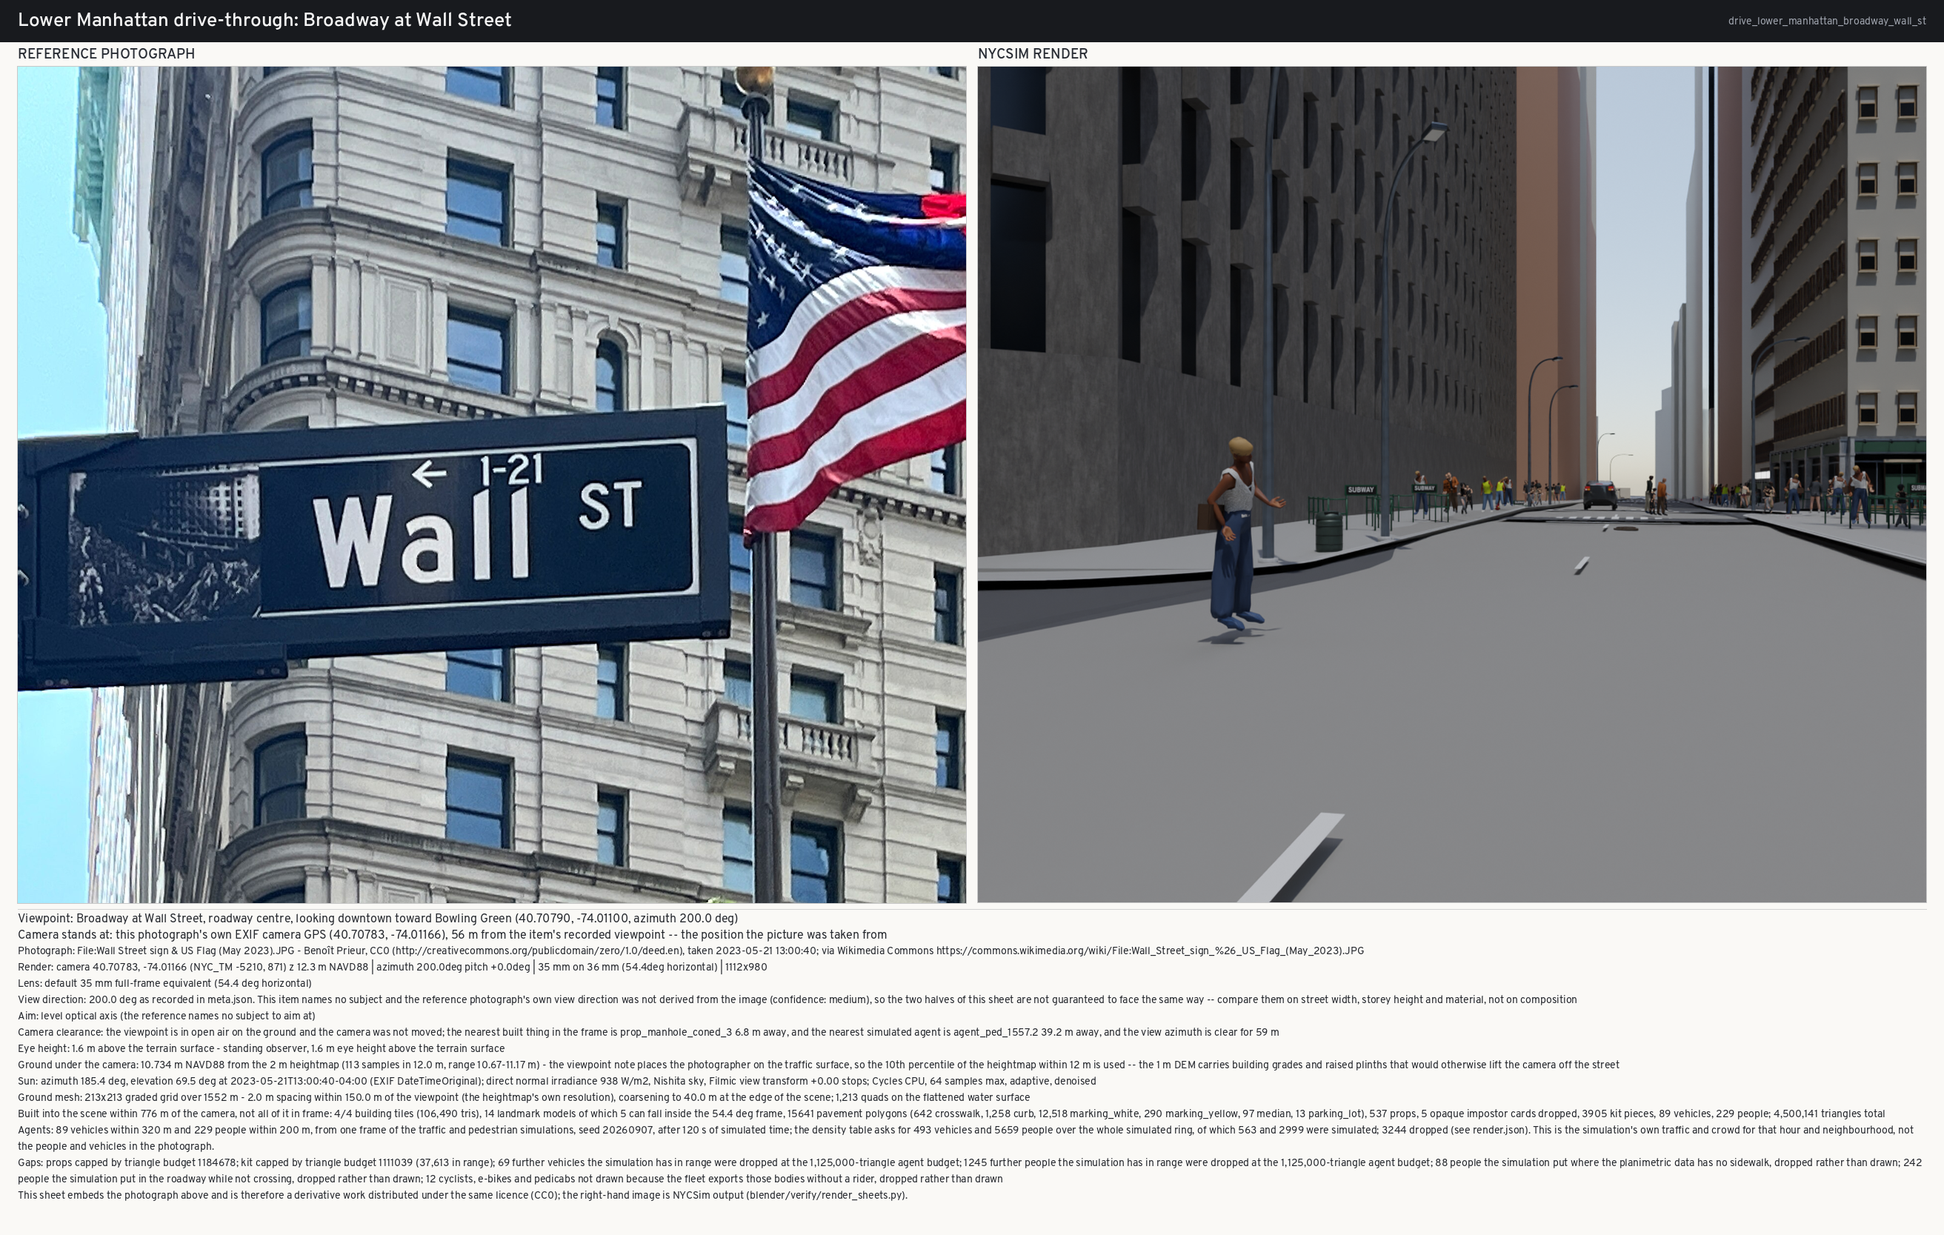
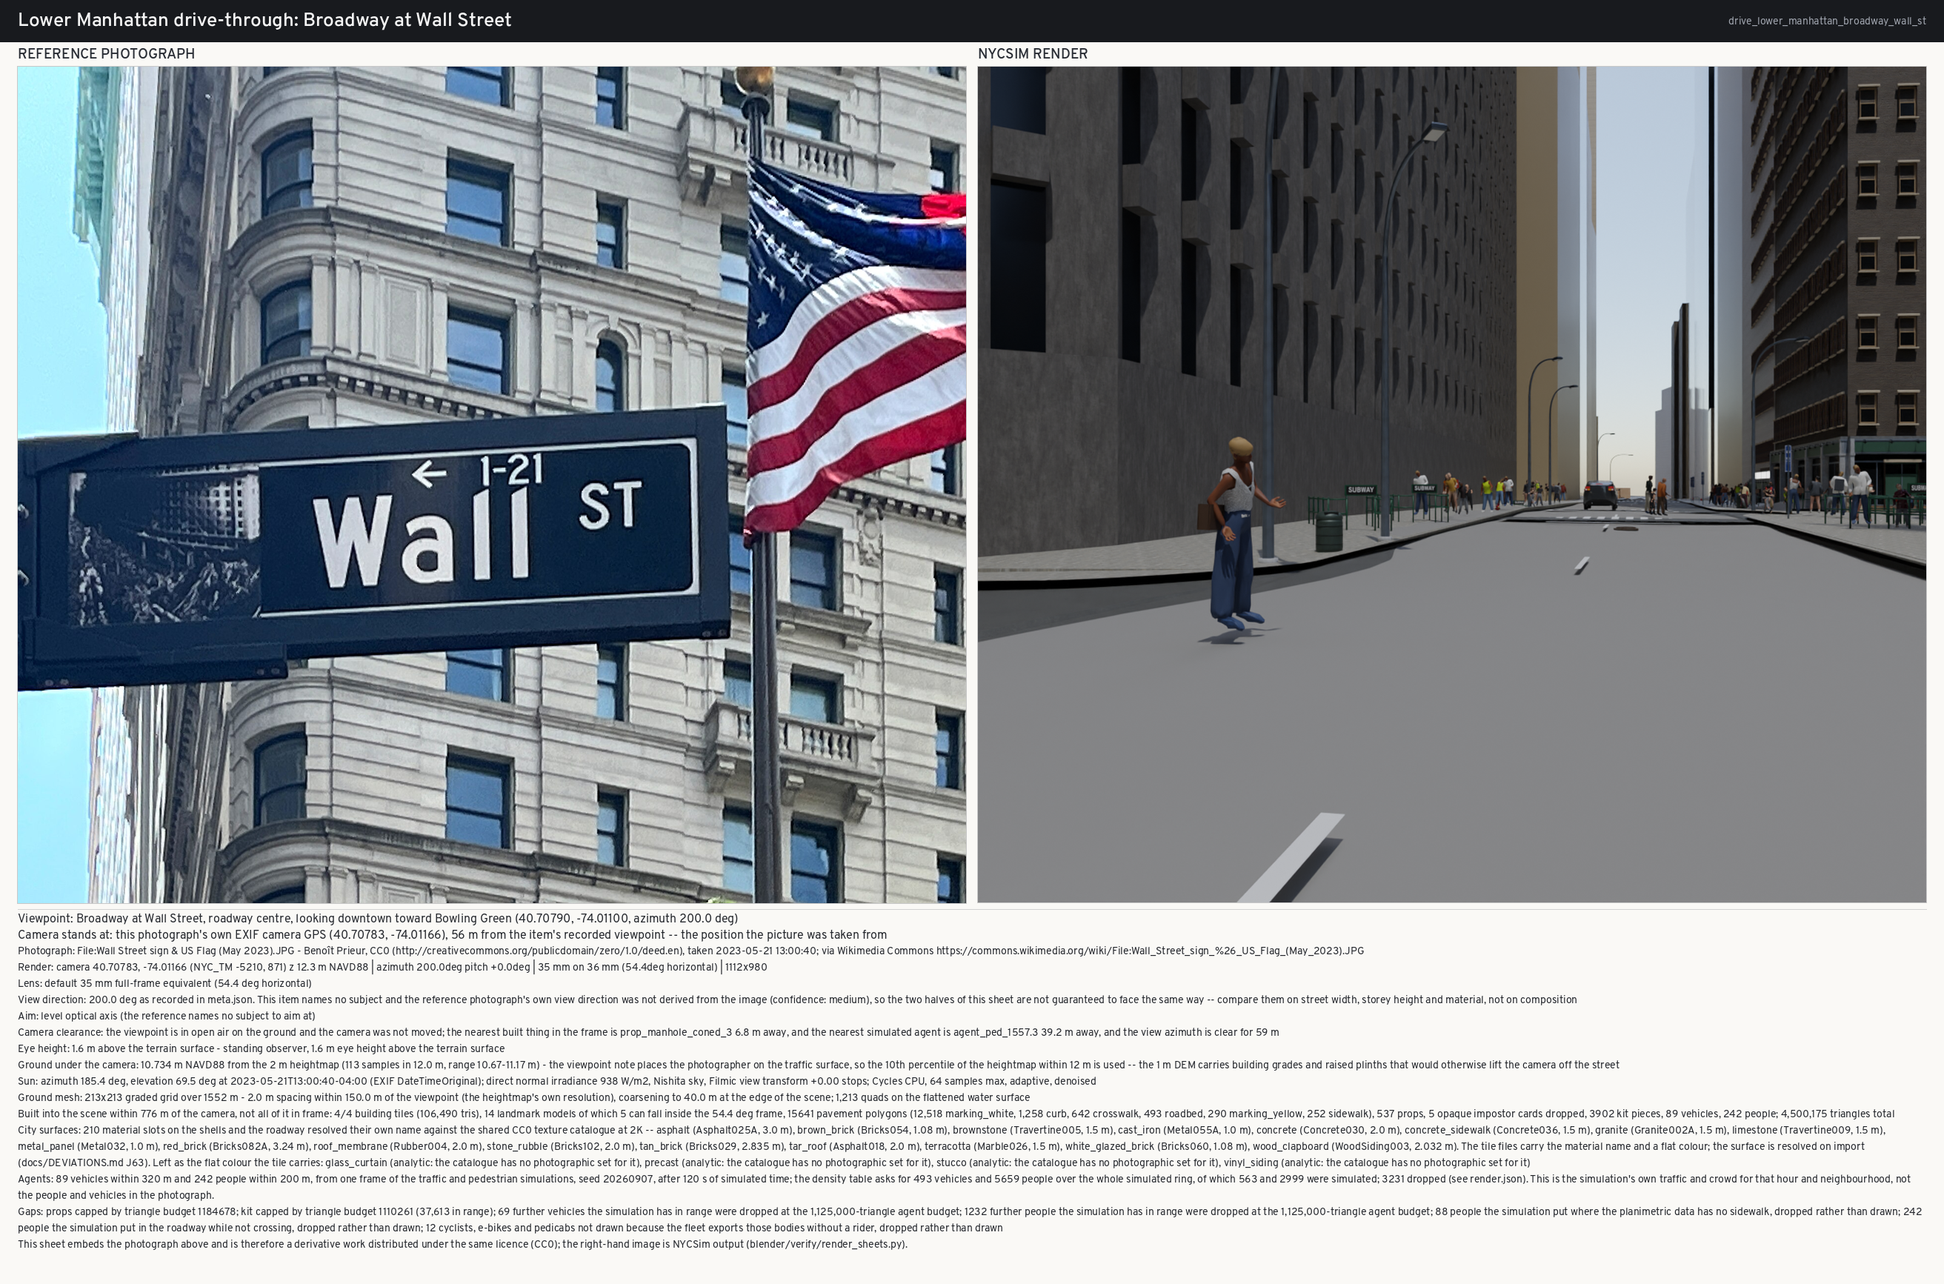
verify: J64 — the road is buried under the terrain in the near field
Ray-cast down from points along the Broadway/Wall St view axis, the asphalt
sits below the terrain the whole way: -0.47 m at 1 m ahead, -0.62 at 5,
-0.64 at 8, -0.21 at 20, crossing over to +0.03 only at 50 m. Cast along
the view direction, every ray from 45 degrees down to 3 degrees hits the
ground mesh out to 29 m. The foreground of every street-level sheet is the
flat brown terrain, not the road; the markings and kerb that are visible
are all beyond that.

Not a lift and not z-fighting: add_pavement ear-clips the raw outline and
drapes only the polygon's ring, so the interior is a flat fan between its
edge heights. The roadbed polygon containing this camera is 2,843 m2 and
Broadway rises more than half a metre across it, while the terrain samples
every 2 m and follows the rise.

The measurement that settles it: t_-6_0/tile_pavement.glb carries 801,235
pavement triangles, 71,591 of them roadbed asphalt, against the 25,555 the
renderer built for a whole 200 m disc across several tiles. The exporter
cuts every polygon on a 2.5 m grid before draping and the renderer
re-derives it without that step -- so the sheets have never shown the road
surface that ships.

Also closes out today's prop work in the two J58 registers, which is what
turned this up: three kinds left COLLAPSED_PROP_KINDS (bus_stop_sign,
utility_pole, rtpi_sign), the recorded total moves 314,105 -> 297,694, and
WRONG_SIZED_PROP_ASSETS is now empty and kept as an empty register because
[…]

diff --git a/tests/test_world_integration.py b/tests/test_world_integration.py
@@ -1182,13 +1182,14 @@ def test_the_architecture_does_not_claim_a_train_that_does_not_run():
 COLLAPSED_PROP_KINDS = {
     "manhole": (288_174, "no source in this build says which cover belongs to which utility; the "
                          "rows are rule-placed, so a DEP/Con Edison split would be invented"),
-    "bus_stop_sign": (13_341, "drawn as sign_nyc_parking_18, a different object; needs an MTA blade"),
     "waste_basket": (5_611, "all Better Bin; DSNY replaced only part of the wire-basket stock"),
     "citibike_dock": (2_507, "the bikes without their dock rail or kiosk"),
-    "flagpole": (1_655, "all the city flag; nothing in the data says which pole flies which"),
     "steam_vent": (1_402, "all the 3 m stack; the 6 m is used where the plume must clear traffic"),
-    "utility_pole": (924, "all the 2 m u-channel post"),
-    "rtpi_sign": (491, "drawn as sign_nyc_parking_18, a different object"),
+    # Left this register on 2026-09-08 and each says how:
+    #   bus_stop_sign  13,341  now sign_mta_bus_stop, its own asset (J58)
+    #   flagpole        1,655  now 812 US and 843 city poles, split on the OSM subtype (J58)
+    #   utility_pole      924  now unplaced; an 11 m pole has no asset and a sign post is not one
+    #   rtpi_sign         491  now unplaced, likewise
 }
 
 
@@ -1254,20 +1255,22 @@ def test_no_prop_kind_quietly_collapses_onto_one_of_its_assets():
     for name in COLLAPSED_PROP_KINDS:
         if name not in found:
             wrong.append(f"{name}: no longer collapsed -- remove it from COLLAPSED_PROP_KINDS and J58")
+    # 314,105 when J58 was written; 297,694 after 2026-09-08 took bus_stop_sign (13,341),
+    # flagpole (1,655), utility_pole (924) and rtpi_sign (491) out of it.  The figure is asserted so
+    # that the register and the deviation cannot drift apart in either direction.
     total = sum(n for n, _ in COLLAPSED_PROP_KINDS.values())
-    assert total == 314_105, f"the recorded total moved to {total:,}; J58 says 314,105"
+    assert total == 297_694, f"the recorded total moved to {total:,}; J58 says 297,694"
     assert not wrong, "prop asset selection moved:\n   " + "\n   ".join(wrong)
 
 
 #: Kinds whose chosen asset is more than twice or less than half the height the kind declares, and
 #: why (docs/DEVIATIONS.md J58). The catalogue states each kind's real dimensions and each asset's
 #: measured ones, so this was checkable from the day both existed and nothing compared them.
-WRONG_SIZED_PROP_ASSETS = {
-    "utility_pole": (11.0, 2.44, "an 11 m wooden power/telecom pole drawn as a 2 m u-channel sign "
-                                 "post; the sign_post alias is the fault, not the variant"),
-    "bus_stop_sign": (3.0, 0.46, "an MTA bus stop blade drawn as an 18 in parking regulation plate"),
-    "rtpi_sign": (3.0, 0.46, "a real-time passenger information sign, likewise"),
-}
+#: Empty since 2026-09-08.  All three entries left it on the same day: ``bus_stop_sign`` got its own
+#: 3.05 m asset, and ``utility_pole`` and ``rtpi_sign`` are unplaced rather than drawn as a 0.46 m
+#: parking plate and a 2.44 m sign post (docs/DEVIATIONS.md J58).  Kept as an empty register rather
+#: than deleted: the test below is what refuses the next one.
+WRONG_SIZED_PROP_ASSETS: dict[str, tuple[float, float, str]] = {}
 
 
 def test_no_prop_kind_is_drawn_by_an_asset_of_the_wrong_size():

diff --git a/blender/props/p_signs.py b/blender/props/p_signs.py
@@ -139,7 +139,7 @@ SPECS = [
                "MUTCD R2-1 SPEED LIMIT, 24 x 30 in (0.610 x 0.762 m); the baked legend is the NYC citywide default of "
                "25 mph, replaced per instance from roads/segments.parquet posted_speed_mph.",
                variants=SIGN_VARIANTS, tags=["mutcd:R2-1"], tolerance=0.05),
-    C.PropSpec("sign_mta_bus_stop", "signs", "bus_stop_sign", build_mta_bus_stop, (0.305, 0.070, 3.05),
+    C.PropSpec("sign_mta_bus_stop", "signs", "bus_stop_sign", build_mta_bus_stop, (0.305, 0.039, 3.05),
                "MTA bus stop sign: a 12 x 42 in blue blade with a bus pictogram and BUS STOP, on a "
                "10 ft galvanised U-channel post, blade bottom 2.0 m above grade. Route numbers are "
                "not drawn -- they differ per stop and this build has no per-stop artwork "

diff --git a/blender/props/build_props.py b/blender/props/build_props.py
@@ -94,6 +94,8 @@ def _write_asset_catalog() -> int:
     exported, catalogued per asset, and still absent from the aggregate the placer reads
     (docs/DEVIATIONS.md J58).  Written on every run, including a partial one.
     """
+    import _core as C
+
     entries = []
     for f in sorted(C.CATALOG_DIR.glob("*.json")):
         try:

diff --git a/docs/DEVIATIONS.md b/docs/DEVIATIONS.md
@@ -273,6 +273,7 @@ what they have in common is more useful than where they happened.
 | J61 | **The sheet caption introduced its scene counts with the words "In frame", and the landmark count is two and a half times what a frame can hold.** Broadway at Wall Street builds **14 landmark models** into its scene and captions them *"In frame: ... 14 landmarks"*. Nine of the fourteen stand behind or beside the camera: Trinity Church at **54 m** and 99&deg; off the view axis, Federal Hall at 131 m and 85&deg; off, the Equitable Building at 107 m and 135&deg; off, the Brooklyn Bridge at 1.2 km and 102&deg; off. Measured over every sheet that carries landmarks at all: **449 models placed, 180 that can fall inside a frame (40 %), and 47 of the 52 sheets overstate.** The same word covers the pavement and prop counts, which are radius counts too -- this sheet's *"12,518 marking_white"* is over **776 m**, while **3** marking polygons lie within 30 m of the camera inside the cone and 51 within 60 m. | It is J54's family again and the fourth appearance in this pass: a correct measurement of something other than the thing it stands for. The damage is not the caption but what is written from it -- an assessment quoting *"14 landmarks in frame"* describes a picture that shows at most five, and the reader has no way to catch it because the number is real and the render did place them. The pavement figure misleads in the same direction: it reads as a densely marked road and the road under the camera carries three painted polygons, which is **correct** for this block -- 4 in dash paint on a 12.2 m period -- and looks like a failure only because the caption invited the wrong comparison. | Done, and without a re-render. The counts were never wrong; the sentence that introduced them was. The line now opens *"Built into the scene within N m of the camera, not all of it in frame"* and the landmark count carries its in-cone figure beside it: *"14 landmark models of which 5 can fall inside the 54.4 deg frame"*. The frustum arithmetic lives once, in `tools/sheet_facts.py`, and both the caption composer and the assessment facts call it -- `--compose-only` rebuilds a sheet from its existing `render.json` for no render time, so all 172 sheets take the new wording whenever they were rendered. It is a cone test, not a visibility test, and says so: a nearer building can still hide a landmark that crosses the field of view. **The same record carried a second trap for a writer**, found while reading it: `agent_request.dow` is not a day of the week. `DensityTable::kDows` is **3** -- one density profile for weekdays, one for Saturday, one for Sunday -- so this sheet's Sunday photograph records `"dow": 2`, which transcribes as Tuesday. That is exactly the "Monday for Saturday" error the adversarial verify pass caught in an early assessment. The facts now spell the day type out (**Sunday**) and check it against the frame's own clock. |
 | J62 | **Every comparison render in this project drew its entire crowd from twelve bodies out of thirty-six, and the twelve exclude every coat.** `blender/verify/render_sheets.py` held `AGENT_NPC_ARCHETYPES = 12`, justified in its own comment by *"the 24 exported bodies through three walk phases already give more distinct figures than a frame ever holds"*. Both halves of that sentence are false. The wardrobe bakes **36** bodies, not 24 -- J53 added twelve outerwear bodies, indices 24 to 35, every trench coat, wool coat, puffer, leather, denim and field jacket in the project. And a frame holds **229 people**, not 36. `PedLibrary` then clamped again with `min(24, ...)`, so even correcting the constant to 36 would silently have kept 24. The simulation emits all thirty-six: **989 of the 2,999 people in the Broadway/Wall St snapshot (33.0 %) carry archetype 24 or above**, and every one of them was folded onto a body 0 to 11 by `arch % 12`. | The frame is the evidence, and the evidence was of a city that does not exist. With twelve bodies over 229 people **each body stands in the same frame about nineteen times**; **two of the twelve wear medical scrubs**, so one person in six on Broadway and Wall Street is dressed as hospital staff; and the mustard jacket that is body 2 appears nineteen times, which is what makes a Financial District sidewalk read as a work crew. The fold is uniform rather than skewed -- 36 archetypes over 12 bodies is exactly 3 each -- so nothing looked statistically odd; **24 of 36 bodies were simply absent from every sheet.** The worst of it is what this does to J53: that deviation is closed as *"the crowd never puts a coat on -- done"*, and the only stage in the project that can show a coat could not draw one. A fix verified by a renderer that cannot render it is not verified. | Done, and **the pass was restarted a eleventh time at 9 of 172** -- this changes the image on every sheet, which is the standing bar for a restart. `AGENT_NPC_ARCHETYPES` is now `None`, meaning every body the wardrobe baked; `PedLibrary` takes its cast from `npc_variety.json` rather than a literal, and clamps to what is on disk. The fold survives -- a snapshot from a newer simulation must not crash a render -- but it is **counted and published**: `scene.agents.snapshot.npc_archetypes_available` states the cast on every sheet and `npc_archetypes_folded` names any archetype that was substituted, so this can never again be discovered by looking at a picture. `test_the_verification_render_can_draw_every_body_the_wardrobe_bakes` holds the constant, the clamp, the glb on disk for each baked body, and every shipped sheet's own report. **A second thing was measured while confirming this and is a stated rule, not a defect:** above 12 degrees the archetype draw is uniform over all 36 bodies, so a **15 degree** May afternoon puts a third of the crowd in outerwear -- correct for a denim or leather jacket, wrong for a wool coat and a puffer. The weighting in `GameplayPedSim::assignAppearance` is a two-state rule (below 12 degrees, prefer warm) and has no mild band. Named here rather than fixed silently. |
 | J63 | **The whole streamed city -- every building, every roadway, every elevated structure and every park surface -- is painted in flat colours and carries no texture at all.** Scanned over every exported `.glb`: **`tile_buildings` 920 files, 4.12 GB, 8,722 materials, 0 with a base-colour texture. `tile_pavement` 546 files, 8.34 GB, 5,177 materials, 0. `tile_structures` 845 files, 1,804 materials, 0. `tile_parkground` 43 files, 188 materials, 0.** That is **12.71 GB of geometry and 15,891 materials without a single image**. Everything authored by hand is textured -- landmarks 234 of 932, props 224 of 383, the facade kit 441 of 630, the characters 442 of 545 -- and everything generated at city scale is sixteen solid RGB values: `NYCSIM_red_brick` is `[0.42, 0.16, 0.12]` and nothing else. | This is the largest single gap against the brief's photorealism requirement in the project, and it went unrecorded because **it was measured and read as good news**. J50 states it outright -- *"The tiles are unaffected: they carry 12.7 GB of geometry and no embedded images at all"* -- as evidence that the duplication problem did not touch them. The same sentence is the finding. It is visible in every sheet: on the Broadway/Wall St frame the facade kit mounts real window geometry within **176 m** of the camera and the scene reaches **776 m**, so everything beyond the kit radius is an untextured extrusion, and the render's mean chroma is **0.023 against the reference photograph's 0.112** -- a fifth of the colour variation of the street it is a picture of. **Nothing was missing to fix it.** The catalogue `blender/common/texture_catalog.json` already holds all sixteen names plus `asphalt` and `concrete_sidewalk`; all eighteen are **already downloaded, CC0, with measured physical sizes, 251.7 MB on disk**, and are used today by the landmarks and the kit. The shells already carry `TEXCOORD_0` **in metres** (U = arc length along the facade, V = height above ground), which is exactly what a texture with a known `physical_size_m` needs. And a correct material builder already exists -- `blender/buildings/render_verify.py::_material` resolves the name, reads `physical_size_m`, wires colour, roughness and normal through a Mapping node and adds the per-building variation from the shell's own `_LIT_SEED` attributes. The buildings stage wrote a textured renderer for its own verification and **the comparison renderer, which is the project's evidence, imports the exported `.glb` and uses whatever flat material the file carries**. | **Open, and split in two because the halves cost differently.** *The renders* can be fixed for no disk at all: the exported file's job is to carry the material **name**, and the consumer resolves the name -- so `blender/verify/scene.py` dresses each `NYCSIM_*` slot from the catalogue on import, one shared material datablock across every tile so the images load once. That is the next thing built. *The engine* is the expensive half: Unreal resolves nothing either -- no material instance anywhere in `unreal/` names `red_brick` or any other -- so a player sees the same flat colours. Fixing it in the exported files is **not possible in this container**: J50's sidecar rule writes each image into a `textures/` directory beside its own `.glb`, so eighteen materials across 1,554 tile files would be about 250 MB times 1,554, and there are **1.9 GB of writable disk**. The engine-side fix is therefore a set of Unreal material instances keyed on the sixteen names, shipped once with the content package -- named here, sized, and not pretended to be done. **And the texture library was built for exactly this and never asked.** J36 says so in its own words while closing a different fault: *"The library was built for the city's surfaces -- brick, limestone, asphalt, glass -- and the vehicle stage was written against names nobody added."* The vehicles were the ones missing from the catalogue and were added; the city's surfaces were in it from the start, and the city is the one consumer that never called it. |
+| J64 | **The road is buried under the terrain for the first thirty metres of every street-level frame, so the foreground of every drive-through sheet is bare ground.** Ray-cast straight down from points along the Broadway/Wall St view axis, the asphalt sits **below** the terrain the whole way: **-0.47 m at 1 m ahead, -0.52 at 2, -0.56 at 3, -0.62 at 5, -0.64 at 8, -0.51 at 12, -0.21 at 20, -0.17 at 30**, crossing over to +0.03 m only at 50 m. Cast along the view direction instead, every ray from 45 degrees down to 3 degrees hits `verify_terrain / verify_ground` -- the flat 0.26 brown the ground mesh is painted -- out to 29 m. The markings, the crosswalk and the kerb that are visible in the frame are all beyond that. | Not a lift and not z-fighting: a **tessellation** fault, and the docstring states the assumption it breaks. `add_pavement` says *"each vertex is lifted to the heightmap surface plus the kind's own offset, so the pavement follows the real grade"* -- true of the vertices it has, and it only has the polygon's **ring**. It ear-clips the raw outline and drapes the boundary, so the interior of a polygon is a flat fan between its edge heights. The roadbed polygon that contains this camera is **2,843 m2**, about 50 x 57 m, and Broadway rises more than half a metre across it; the terrain, sampled every 2 m, follows that rise and comes out on top. The exported tile does not have this problem, which is the measurement that settles it: **`t_-6_0/tile_pavement.glb` carries 801,235 pavement triangles, 71,591 of them roadbed asphalt**, against the **25,555** the renderer built for a whole 200 m disc spanning several tiles -- about thirty times finer, because `build_pavement.py` cuts every polygon on a 2.5 m grid before draping and the renderer re-derives it without that step. **So the comparison sheets have never shown the road surface that ships**, and the one they do show is a coarser object that the ground pokes through. It survived because nothing compared the two: the sheet reports `pavement.placed` and `per_kind`, both of which are polygon counts and both of which are right. | To do. Importing `tile_pavement.glb` would be the architecturally correct fix -- the sheet should show what ships -- and it does not fit: six tiles at 800 k triangles each is 4.8 M against a 4.5 M scene budget, and the renderer's own coarse pavement path exists for exactly that reason, undocumented until now. So the renderer keeps building its own and gains the step it was missing: cut each polygon on a grid before draping, fine near the camera where the burial is visible and coarse beyond it, which is what `build_pavement.py --grid 2.5 --refine 0.5` already does for the tiles. Sized from the geometry above: the roadbed within 120 m of this camera is about 13,000 m2, so a 4 m grid adds on the order of 1,600 triangles -- nothing against the budget. |
 
 
 **One correction to I11b.** That entry says "40 of the 93 catalogue entries supply ground". 40 have an
